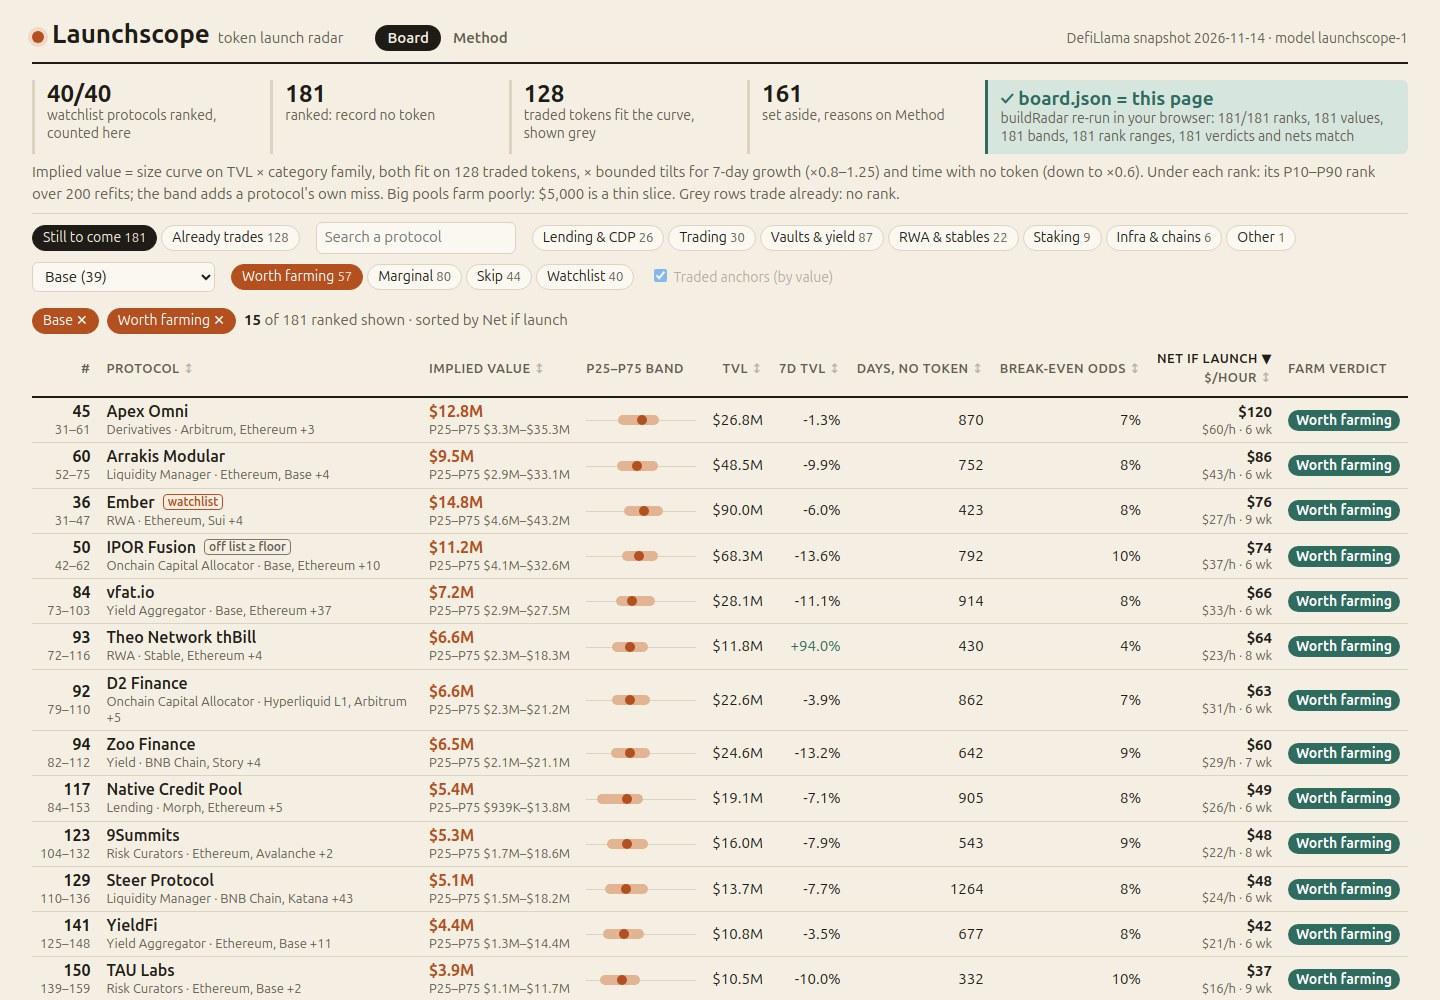
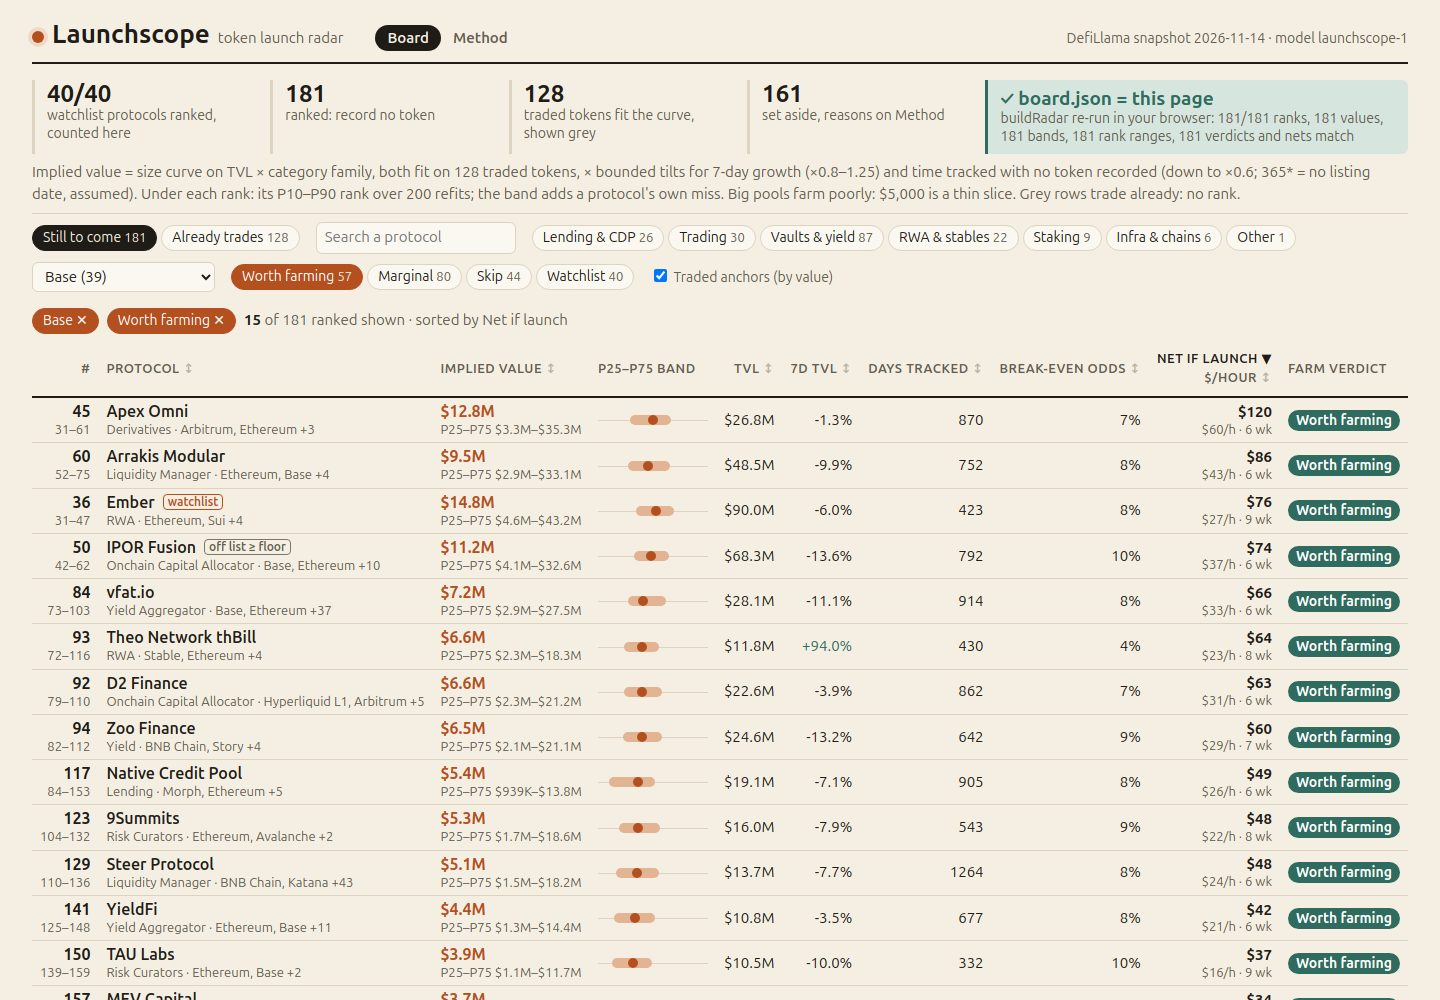
Say 'days tracked', not 'days, no token'; show the assumed 365* where no date
listed_at is when DefiLlama began tracking, so the column, sort label and
detail tile now read 'days tracked', the explainer says 'time tracked with
no token recorded', and a row with no listing date shows 365* (the value the
model assumes) with the footnote, instead of n/a. The anchors toggle no
longer dims (it stays usable).

diff --git a/dashboard/radar.js b/dashboard/radar.js
@@ -38,7 +38,7 @@
     value: (r) => r.iv.value, name: (r) => r.name.toLowerCase(), tvl: (r) => r.tvl_usd, growth: (r) => (r.change_7d === null ? -1e9 : r.change_7d),
     days: (r) => (r.iv.days === null ? -1 : r.iv.days), odds: (r) => r.plan.breakEven, net: (r) => r.plan.net, perhour: (r) => r.plan.perHour,
   };
-  const HEAD = { name: 'Protocol', value: 'Implied value', tvl: 'TVL', growth: '7d TVL', days: 'Days, no token', odds: 'Break-even odds', net: 'Net if launch', perhour: '$/hour' };
+  const HEAD = { name: 'Protocol', value: 'Implied value', tvl: 'TVL', growth: '7d TVL', days: 'Days tracked', odds: 'Break-even odds', net: 'Net if launch', perhour: '$/hour' };
 
   function readHash() {
     const h = decodeURIComponent(location.hash.slice(1));
@@ -106,7 +106,7 @@
     return `<tr class="ranked" data-slug="${esc(r.slug)}"><td class="rk"><b>${r.rank}</b><small>${r.boot.rankLo}–${r.boot.rankHi}</small></td>
       <td class="name"><a href="#p/${esc(r.slug)}">${esc(r.name)}</a>${r.watch ? '<i class="tag">watchlist</i>' : ''}${tag ? `<i class="tag grey" title="${esc(r.note)}">${tag}</i>` : ''}<small>${esc(r.category || 'no category')} · ${esc(r.chains.slice(0, 2).map(L.chainName).join(', '))}${r.chains.length > 2 ? ` +${r.chains.length - 2}` : ''}</small></td>
       <td class="val"><b>${L.usd(r.iv.value)}</b><small>P25–P75 ${L.usd(r.boot.p25)}–${L.usd(r.boot.p75)}</small></td><td>${bandBar(r)}</td>
-      <td class="num">${L.usd(r.tvl_usd)}</td><td class="num ${r.change_7d > 0 ? 'up' : ''}">${pct(r.change_7d)}</td><td class="num">${r.iv.days === null ? 'n/a' : r.iv.days}</td>
+      <td class="num">${L.usd(r.tvl_usd)}</td><td class="num ${r.change_7d > 0 ? 'up' : ''}">${pct(r.change_7d)}</td><td class="num" title="${r.iv.days === null ? 'no listing date: 365 assumed' : ''}">${r.iv.days === null ? '365*' : r.iv.days}</td>
       <td class="num">${odds(p.breakEven)}</td>${net}<td><i class="verdict v-${p.verdict}">${L.VERDICT_LABEL[p.verdict]}</i></td></tr>`;
   }
   function anchorHtml(t) {
@@ -136,14 +136,14 @@
     const chip = (key, val, label, n) => `<button class="chip ${st[key] === val ? 'on' : ''}" data-k="${key}" data-v="${esc(val)}">${esc(label)} <small>${n}</small></button>`;
     const chains = Object.keys(chainCount).sort((a, b) => chainCount[b] - chainCount[a] || (a < b ? -1 : 1)).slice(0, 30);
     $('#view').innerHTML = `${kpis()}
-      <p class="explain">Implied value = size curve on TVL × category family, both fit on ${M.traded.length} traded tokens, × bounded tilts for 7-day growth (×${L.MODEL.growthMin}–${L.MODEL.growthMax}) and time with no token (down to ×${1 - L.MODEL.seasonDepth}). Under each rank: its P10–P90 rank over 200 refits; the band adds a protocol's own miss. Big pools farm poorly: $5,000 is a thin slice. Grey rows trade already: no rank.</p>
+      <p class="explain">Implied value = size curve on TVL × category family, both fit on ${M.traded.length} traded tokens, × bounded tilts for 7-day growth (×${L.MODEL.growthMin}–${L.MODEL.growthMax}) and time tracked with no token recorded (down to ×${1 - L.MODEL.seasonDepth}; 365* = no listing date, assumed). Under each rank: its P10–P90 rank over 200 refits; the band adds a protocol's own miss. Big pools farm poorly: $5,000 is a thin slice. Grey rows trade already: no rank.</p>
       <div class="toolbar">
         <div class="group seg">${chip('tab', '', 'Still to come', M.rows.length)}${chip('tab', 'traded', 'Already trades', M.traded.length)}</div>
         <input id="q" type="search" placeholder="Search a protocol" value="${esc(st.q)}" aria-label="Search">
         <div class="group">${Object.keys(L.FAMILY_LABEL).filter((f) => famCount[f]).map((f) => chip('fam', f, L.FAMILY_LABEL[f], famCount[f])).join('')}</div>
         <select id="chain" aria-label="Chain"><option value="">All chains</option>${chains.map((c) => `<option ${st.chain === c ? 'selected' : ''} value="${esc(c)}">${esc(c)} (${chainCount[c]})</option>`).join('')}</select>
         <div class="group">${['farm', 'marginal', 'skip'].map((v) => chip('verdict', v, L.VERDICT_LABEL[v], verdictCount[v] || 0)).join('')}${chip('watch', '1', 'Watchlist', M.watch)}</div>
-        <label class="toggle ${st.sort !== 'value' || st.verdict || st.watch || st.q ? 'off' : ''}"><input id="anchors" type="checkbox" ${st.anchors === '1' ? 'checked' : ''}> Traded anchors (by value)</label>
+        <label class="toggle"><input id="anchors" type="checkbox" ${st.anchors === '1' ? 'checked' : ''}> Traded anchors (by value)</label>
       </div>
       <div id="results"></div>`;
     renderResults(st);
@@ -192,7 +192,7 @@
     const iv = r.iv;
     const tile = (big, label, m) => `<div class="tile ${m > 1.0005 ? 'up' : m < 0.9995 ? 'down' : ''}"><b>${big}</b><span>${label}</span></div>`;
     return `<div class="eq">${tile(L.usd(iv.base), `size curve at ${L.usd(r.tvl_usd)} TVL`)}<i>×</i>${tile(iv.famMult.toFixed(2), `${L.FAMILY_LABEL[iv.fam]} family`, iv.famMult)}<i>×</i>` +
-      `${tile(iv.growth.toFixed(2), `7-day TVL ${pct(r.change_7d)}`, iv.growth)}<i>×</i>${tile(iv.season.toFixed(2), `${iv.days === null ? '365 assumed' : iv.days} days, no token`, iv.season)}<i>=</i>` +
+      `${tile(iv.growth.toFixed(2), `7-day TVL ${pct(r.change_7d)}`, iv.growth)}<i>×</i>${tile(iv.season.toFixed(2), `${iv.days === null ? '365* assumed' : iv.days} days tracked`, iv.season)}<i>=</i>` +
       `<div class="tile res"><b>${L.usd(iv.value)}</b><span>implied value</span></div></div>`;
   }
 

diff --git a/dashboard/style.css b/dashboard/style.css
@@ -54,7 +54,6 @@ td { padding: 4px 8px; border-bottom: 1px solid var(--rule); }
 .chip.on { background: var(--accent); border-color: var(--accent); color: #fff; }
 .chip.on small { color: #fbe9dc; }
 .toggle { font-size: 14px; }
-.toggle.off { opacity: 0.45; }
 .status { padding: 8px 0; }
 
 /* the board */
